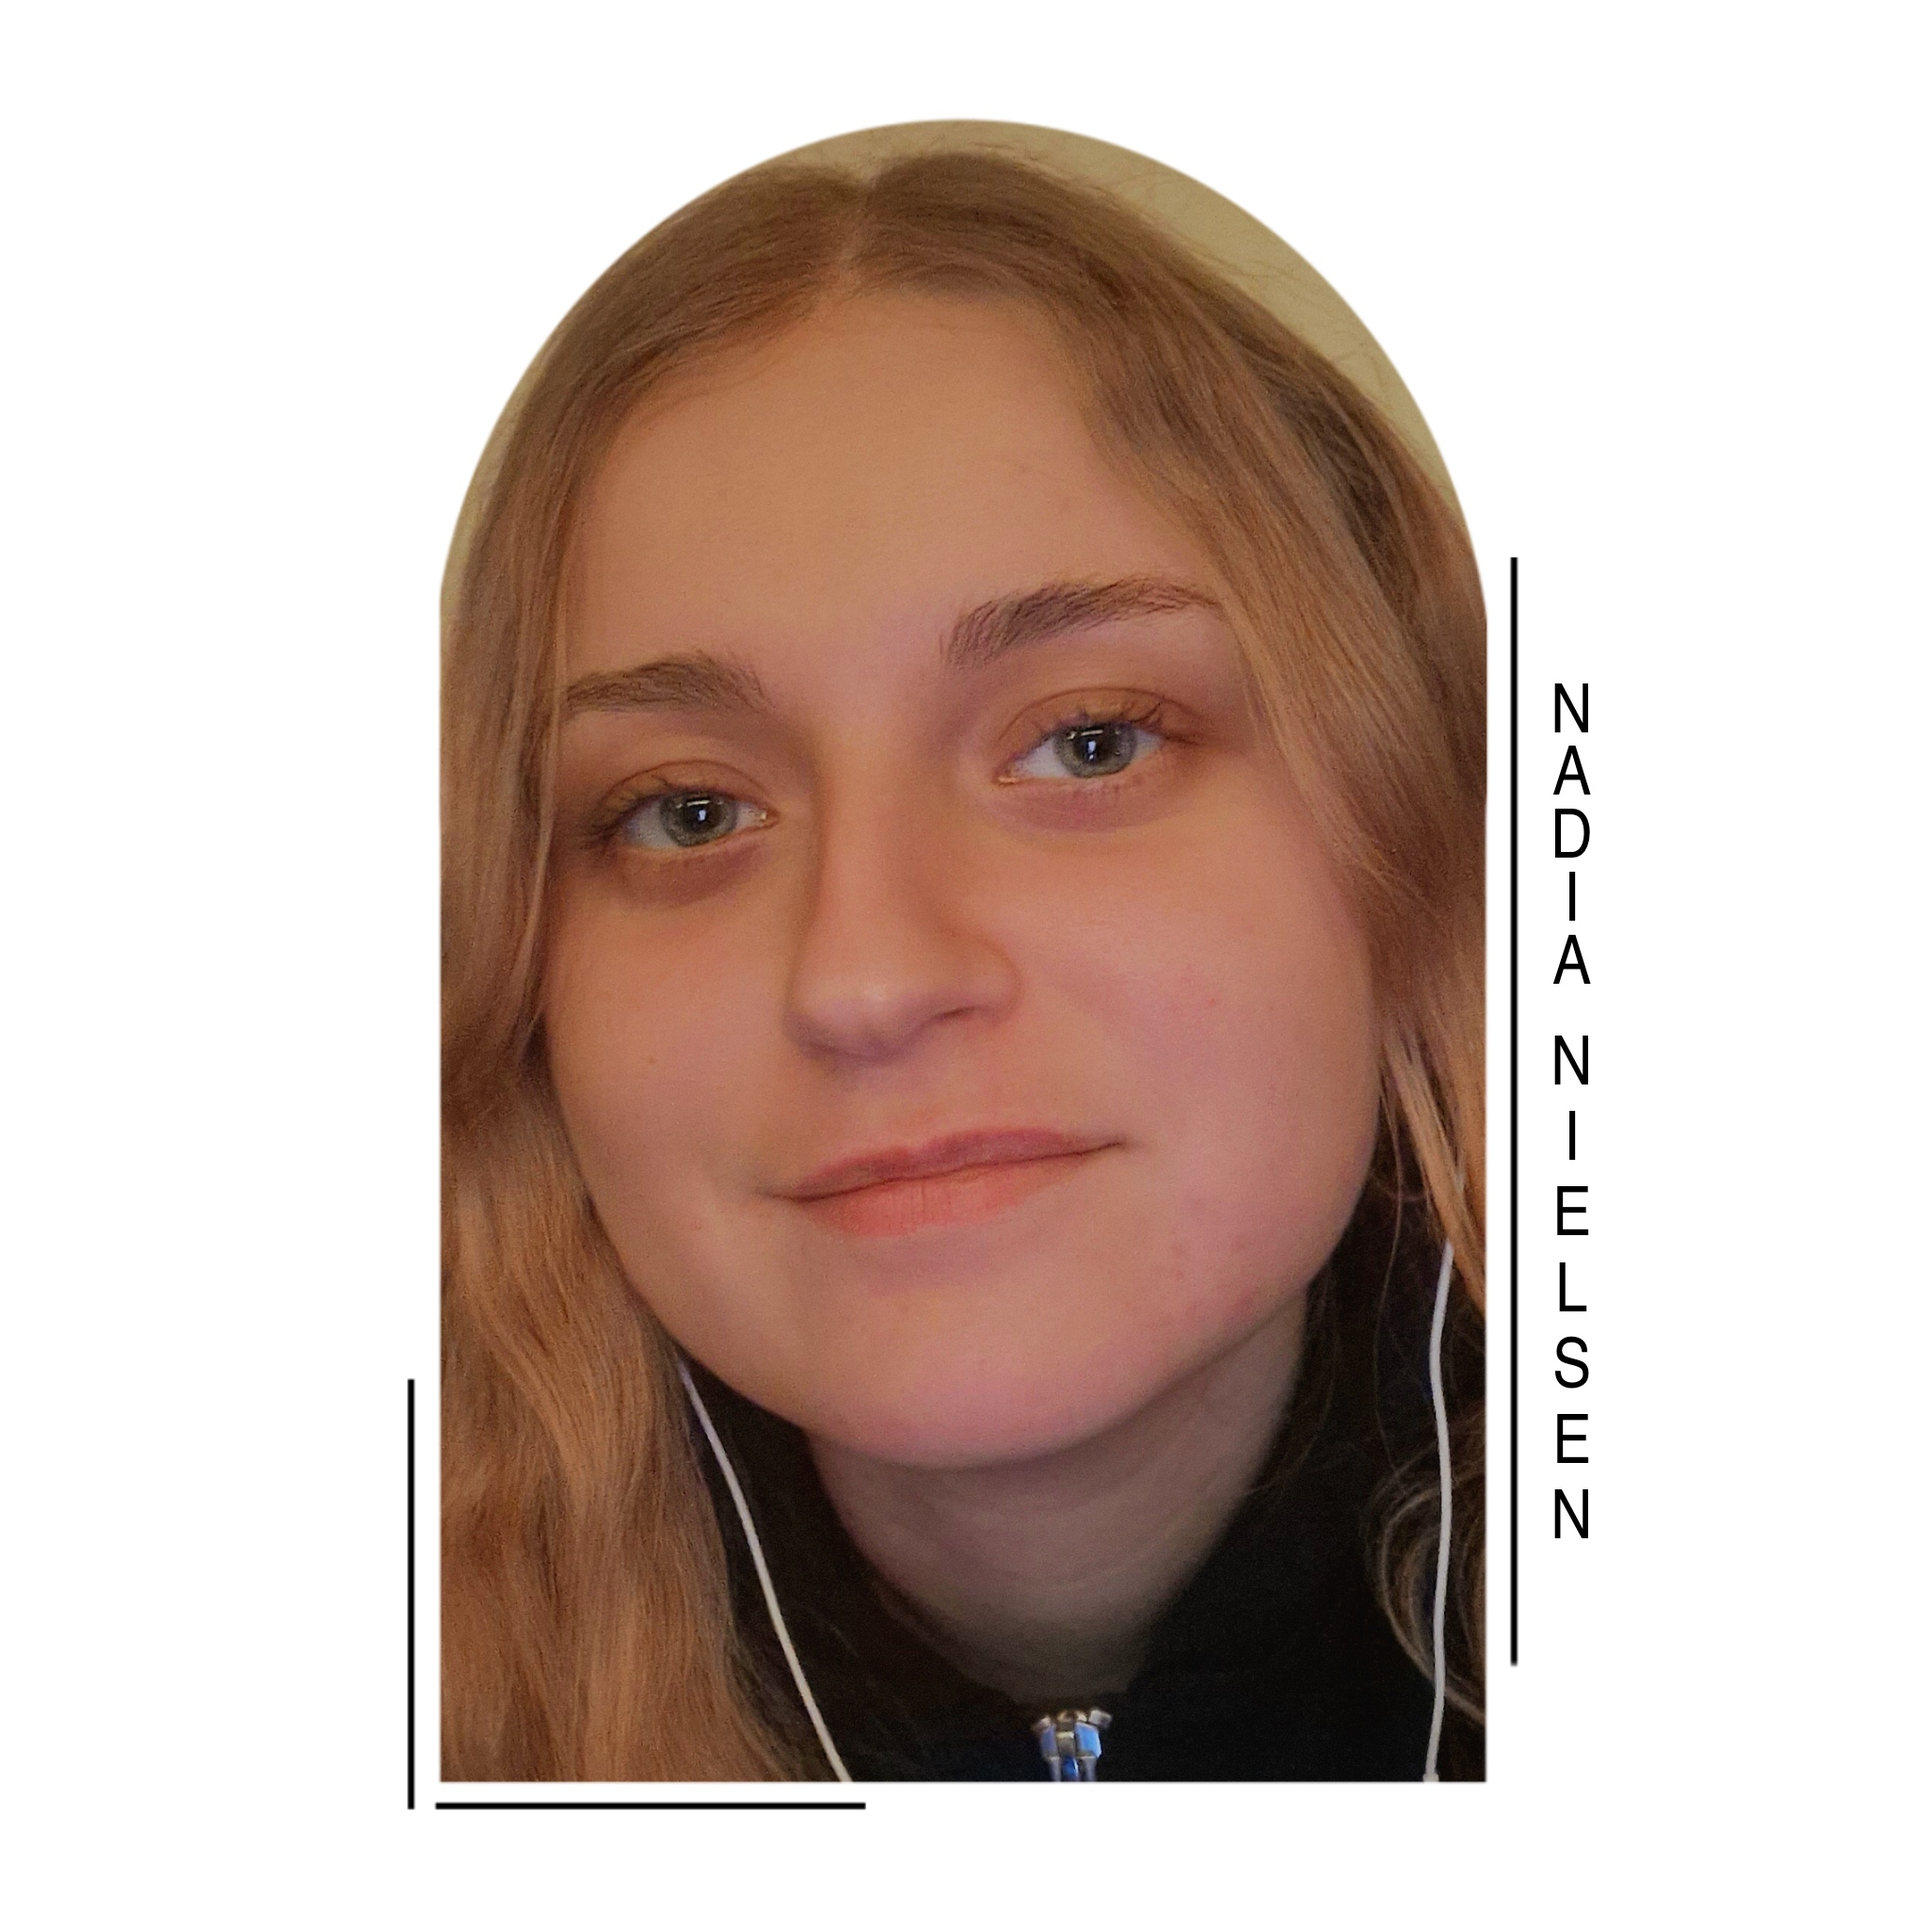
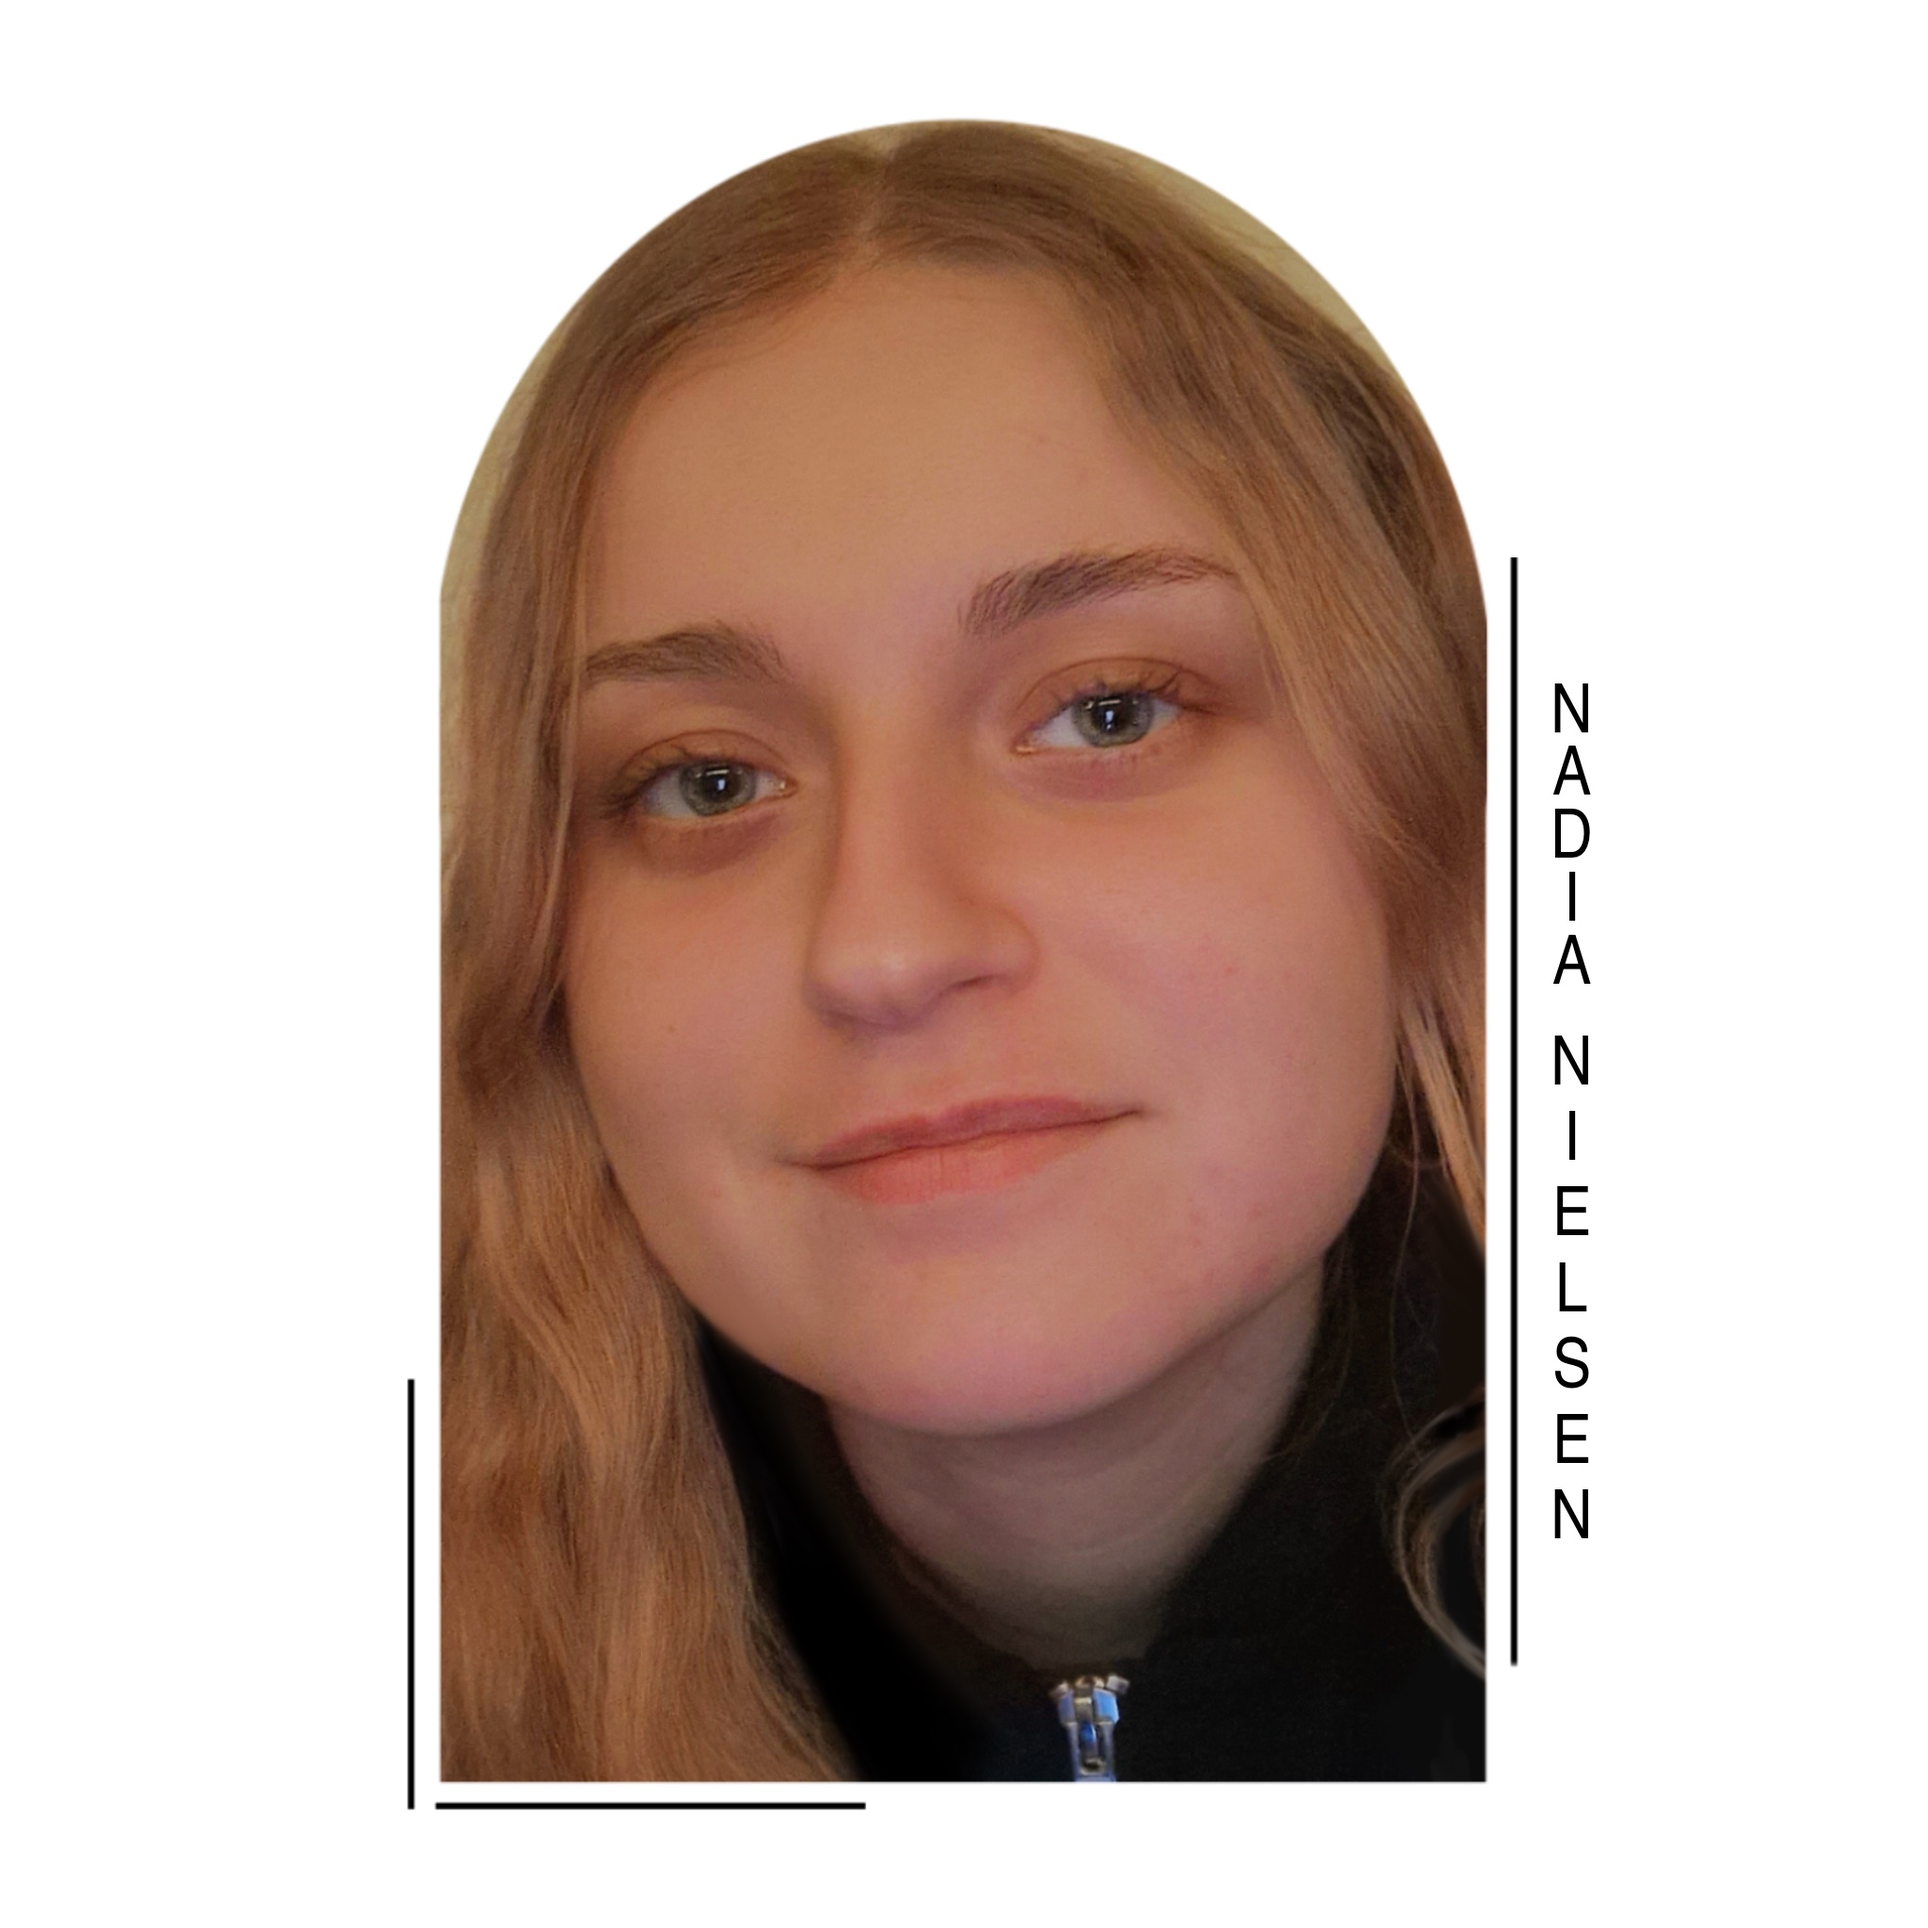
Design on about

diff --git a/src/pages/About.js b/src/pages/About.js
@@ -6,24 +6,31 @@ const About = () => {
 
 
     return ( 
-        <article className="w-[50%] h-full m-auto grid ">
-            <article className="">
-                <h2 className="text-xl font-semibold">About</h2>
-                <h3 className="underline pt-1">Information about me</h3>
-                <p>My name is Nadia Nielsen and I am 18 years old. I come from Denmark and I am right now taking the web developer education.</p>
-                <p>My plan is to become a web developer, mostly frontend and then I have plans about taking the media graphic designer (mediegrafiker) education since I also have a passion for digital design.</p>
+        <>
+            <article className="-z-30 absolute">
+                <img src="./images/hero.jpg" alt="" />
             </article>
-            <article className="">
+        <article className="w-[70%] h-screen m-auto grid overflow-y-auto relative bg-neutral-100">
+            <article className="self-center">
+                <div className="flex justify-around items-center">
+                    <p className="w-[45%]"><span className="font-semibold"> My name is Nadia Nielsen</span> and I am 18 years old. I come from Denmark and I am right now taking the web developer education. My plan is to become a web developer, mostly frontend and then I have plans about taking the media graphic designer (mediegrafiker) education since I also have a passion for digital design.</p> 
+                    <span className="h-[10rem] border border-black"></span>  
+                    <img src="./images/me.jpg" alt=""  className="w-[15rem] my-4"/>
+                </div>
+            </article>
+            <article className="mx-[5%] my-2">
                 <h2 className="text-xl font-semibold">Web developer education</h2>
                 <h3 className="underline pt-1">Just to show some examples of what I've learned</h3>
                 <h4 className="font-semibold pt-2">How to fetch from an api in react and javascript</h4>
-                <img src="./images/axiosfetchwithoutprops.jpg" alt=""  className="my-2"/>
+                <img src="./images/axiosfetchwithoutprops.jpg" alt=""  className=""/>
+                <p className="py-4 font-semibold">Fetch in Javascript</p>
                 <img src="./images/fetchjavascript.jpg" alt="" className="mb-2" />
-            </article>
-            <article>
+                </article>
+                <article>
                 <h3 className="font-semibold">How to fetch an array of things or object</h3>
             </article>
         </article>
+        </>
      );
 }
  

diff --git a/src/components/Layout.js b/src/components/Layout.js
@@ -6,7 +6,7 @@ import Header from "./Header";
 function Layout() {
     return (
         <>
-        <ScrollToTop />
+        <ScrollToTop/>
             <Header />
             <main className="row-start-2">
                 <Outlet />
